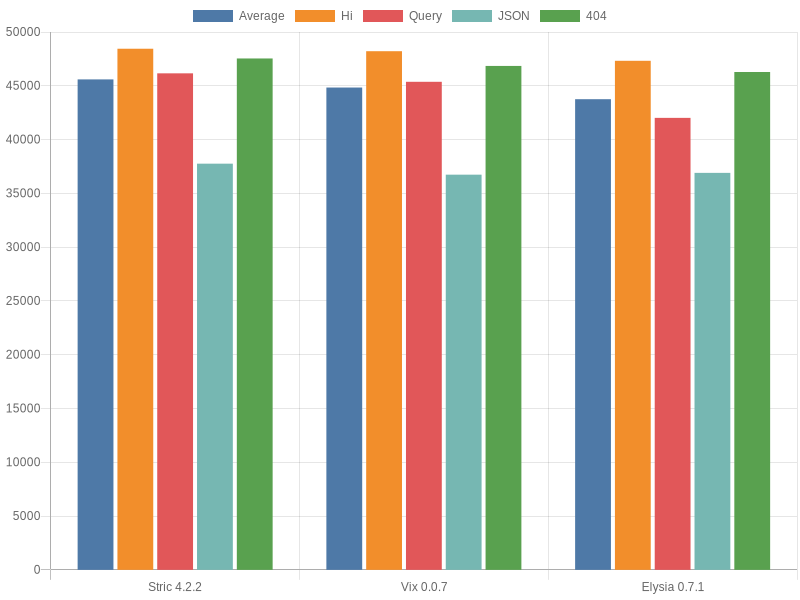
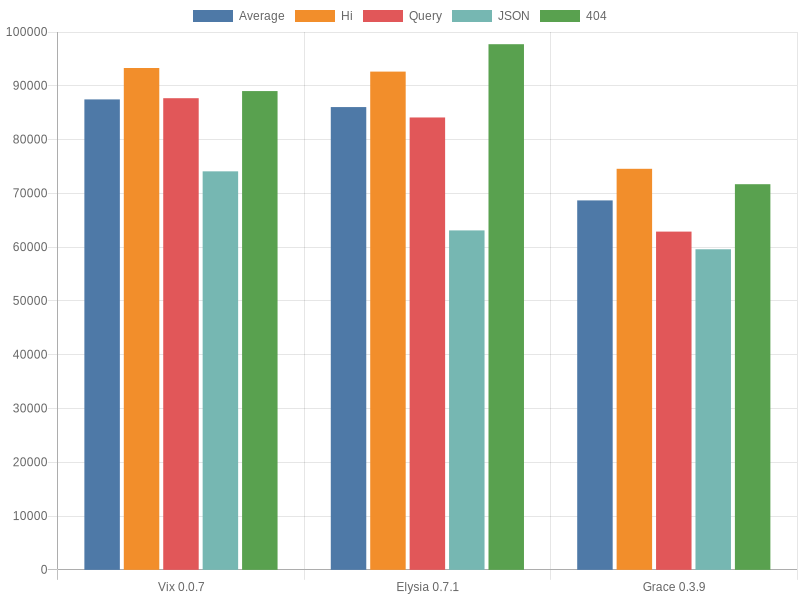
Grace JS

diff --git a/src/Grace/index.ts b/src/Grace/index.ts
@@ -1,0 +1,85 @@
+import {createGrace, createRoute, t} from "@grace-js/grace";
+
+const app = createGrace()
+    .registerRoute(createRoute({
+        method: 'GET',
+        path: '/',
+        schema: {
+            response: {
+                200: t.String()
+            }
+        },
+        handler: async () => {
+            return {
+                code: 200,
+                body: 'Hi'
+            }
+        },
+    }))
+    .registerRoute(createRoute({
+        method: 'GET',
+        path: '/id/:id',
+        schema: {
+            response: {
+                200: t.String()
+            },
+            params: t.Object({
+                id: t.Any()
+            }),
+            query: t.Object({
+                name: t.Any()
+            })
+        },
+        handler: async (c) => {
+            return {
+                code: 200,
+                body: c.params.id + ' ' + c.query.name
+            }
+        },
+    }))
+    .registerRoute(createRoute({
+        method: 'GET',
+        path: '/api/hi',
+        schema: {
+            response: {
+                200: t.String()
+            }
+        },
+        handler: async () => {
+            return {
+                code: 200,
+                body: 'Welcome'
+            }
+        },
+    }))
+    .registerRoute(createRoute({
+        method: 'POST',
+        path: '/api/json',
+        schema: {
+            response: {
+                200: t.Any()
+            }
+        },
+        handler: async (c) => {
+            return {
+                code: 200,
+                body: c.body
+            }
+        },
+    }))
+    .registerRoute(createRoute({
+        method: 'GET',
+        path: '/a/b',
+        schema: {
+            response: {
+                404: t.String()
+            }
+        },
+        handler: async () => {
+            return {
+                code: 404,
+                body: 'Not Found'
+            }
+        },
+    }))
+    .listen(3000, () => {});

diff --git a/results/index.md b/results/index.md
@@ -1,19 +1,19 @@
 Bun: 1.0.2
 
-Tested at: 10:07, September 22nd, 2023
+Tested at: 15:46, September 24th, 2023
 
 ## OS Details
-- Cores: 8
-- Model: Intel(R) Core(TM) i5-8250U CPU @ 1.60GHz
-- OS: Linux
-- System memory: 15.4GB
-- Architecture: x64
+- Cores: 10
+- Model: Apple M1 Pro
+- OS: Mac
+- System memory: 32GB
+- Architecture: arm64
 ## Tests
 ### GET `/`
 Should return `Hi` as a response.
 ### GET `/api/hi`
 Should return `Welcome` as a response.
-### GET `/id/98?name=Y6p`
+### GET `/id/51?name=tME`
 Should return the `id` parameter value and the query value, for example `1 a` when the request path is `/id/1?name=a`.
 ### GET `/a/b`
 Should return a response with `404` status code.
@@ -26,8 +26,8 @@ Return the request body with `Content-Type` set to `application/json`.
 - Results are measured in requests per second.
 
 ## Results
-| Name | Average | GET `/` | GET `/api/hi` | GET `/id/20?name=a6v` | GET `/a/b` | POST `/api/json` |
+| Name | Average | GET `/` | GET `/api/hi` | GET `/id/12?name=i11` | GET `/a/b` | POST `/api/json` |
 |  :---: | :---: | :---: | :---: | :---: | :---: | :---: |
-| [Stric 4.2.2](/results/main/Stric) | 45596.59 | 48446.86 | 48076.48 | 46159.56 | 47538.69 | 37761.35 |
-| [Vix 0.0.7](/results/main/Vix) | 44834.60 | 48215.89 | 47004.49 | 45372.81 | 46844.74 | 36735.09 |
-| [Elysia 0.7.1](/results/main/Elysia) | 43753.16 | 47319.76 | 46241.75 | 42018.25 | 46282.17 | 36903.87 |
+| [Vix 0.0.7](/results/main/Vix) | 87468.79 | 93309.21 | 93228.93 | 87697.68 | 89015.30 | 74092.81 |
+| [Elysia 0.7.1](/results/main/Elysia) | 86047.81 | 92632.47 | 92649.13 | 84108.08 | 97737.67 | 63111.71 |
+| [Grace 0.3.9](/results/main/Grace) | 68691.71 | 74563.31 | 74699.99 | 62883.21 | 71703.24 | 59608.81 |

diff --git a/README.md b/README.md
@@ -47,8 +47,8 @@ See [configuration file](/config.ts) and the [type declarations](/lib/types.ts).
 ### Table 
 
 
-| Name | Average | GET `/` | GET `/api/hi` | GET `/id/20?name=a6v` | GET `/a/b` | POST `/api/json` |
+| Name | Average | GET `/` | GET `/api/hi` | GET `/id/12?name=i11` | GET `/a/b` | POST `/api/json` |
 |  :---: | :---: | :---: | :---: | :---: | :---: | :---: |
-| [Stric 4.2.2](/results/main/Stric) | 45596.59 | 48446.86 | 48076.48 | 46159.56 | 47538.69 | 37761.35 |
-| [Vix 0.0.7](/results/main/Vix) | 44834.60 | 48215.89 | 47004.49 | 45372.81 | 46844.74 | 36735.09 |
-| [Elysia 0.7.1](/results/main/Elysia) | 43753.16 | 47319.76 | 46241.75 | 42018.25 | 46282.17 | 36903.87 |
+| [Vix 0.0.7](/results/main/Vix) | 87468.79 | 93309.21 | 93228.93 | 87697.68 | 89015.30 | 74092.81 |
+| [Elysia 0.7.1](/results/main/Elysia) | 86047.81 | 92632.47 | 92649.13 | 84108.08 | 97737.67 | 63111.71 |
+| [Grace 0.3.9](/results/main/Grace) | 68691.71 | 74563.31 | 74699.99 | 62883.21 | 71703.24 | 59608.81 |
